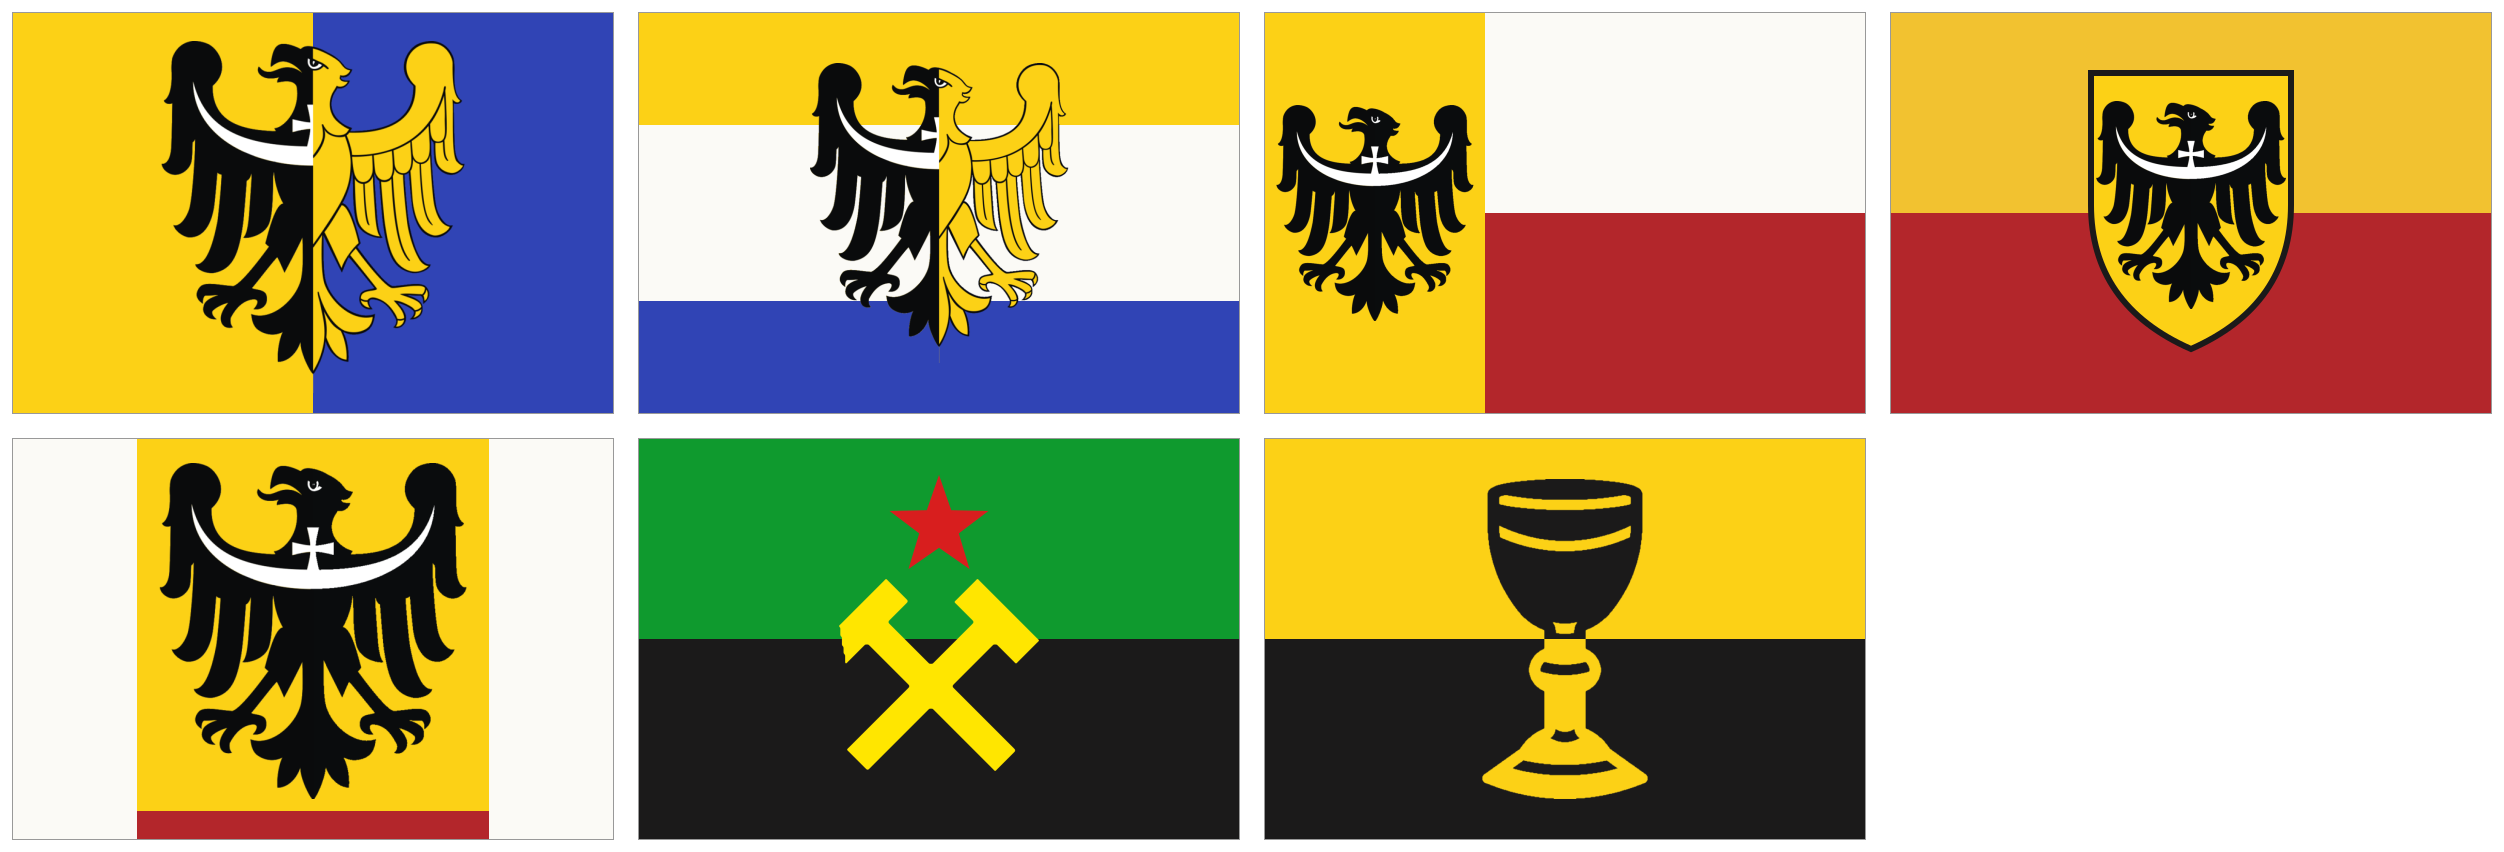
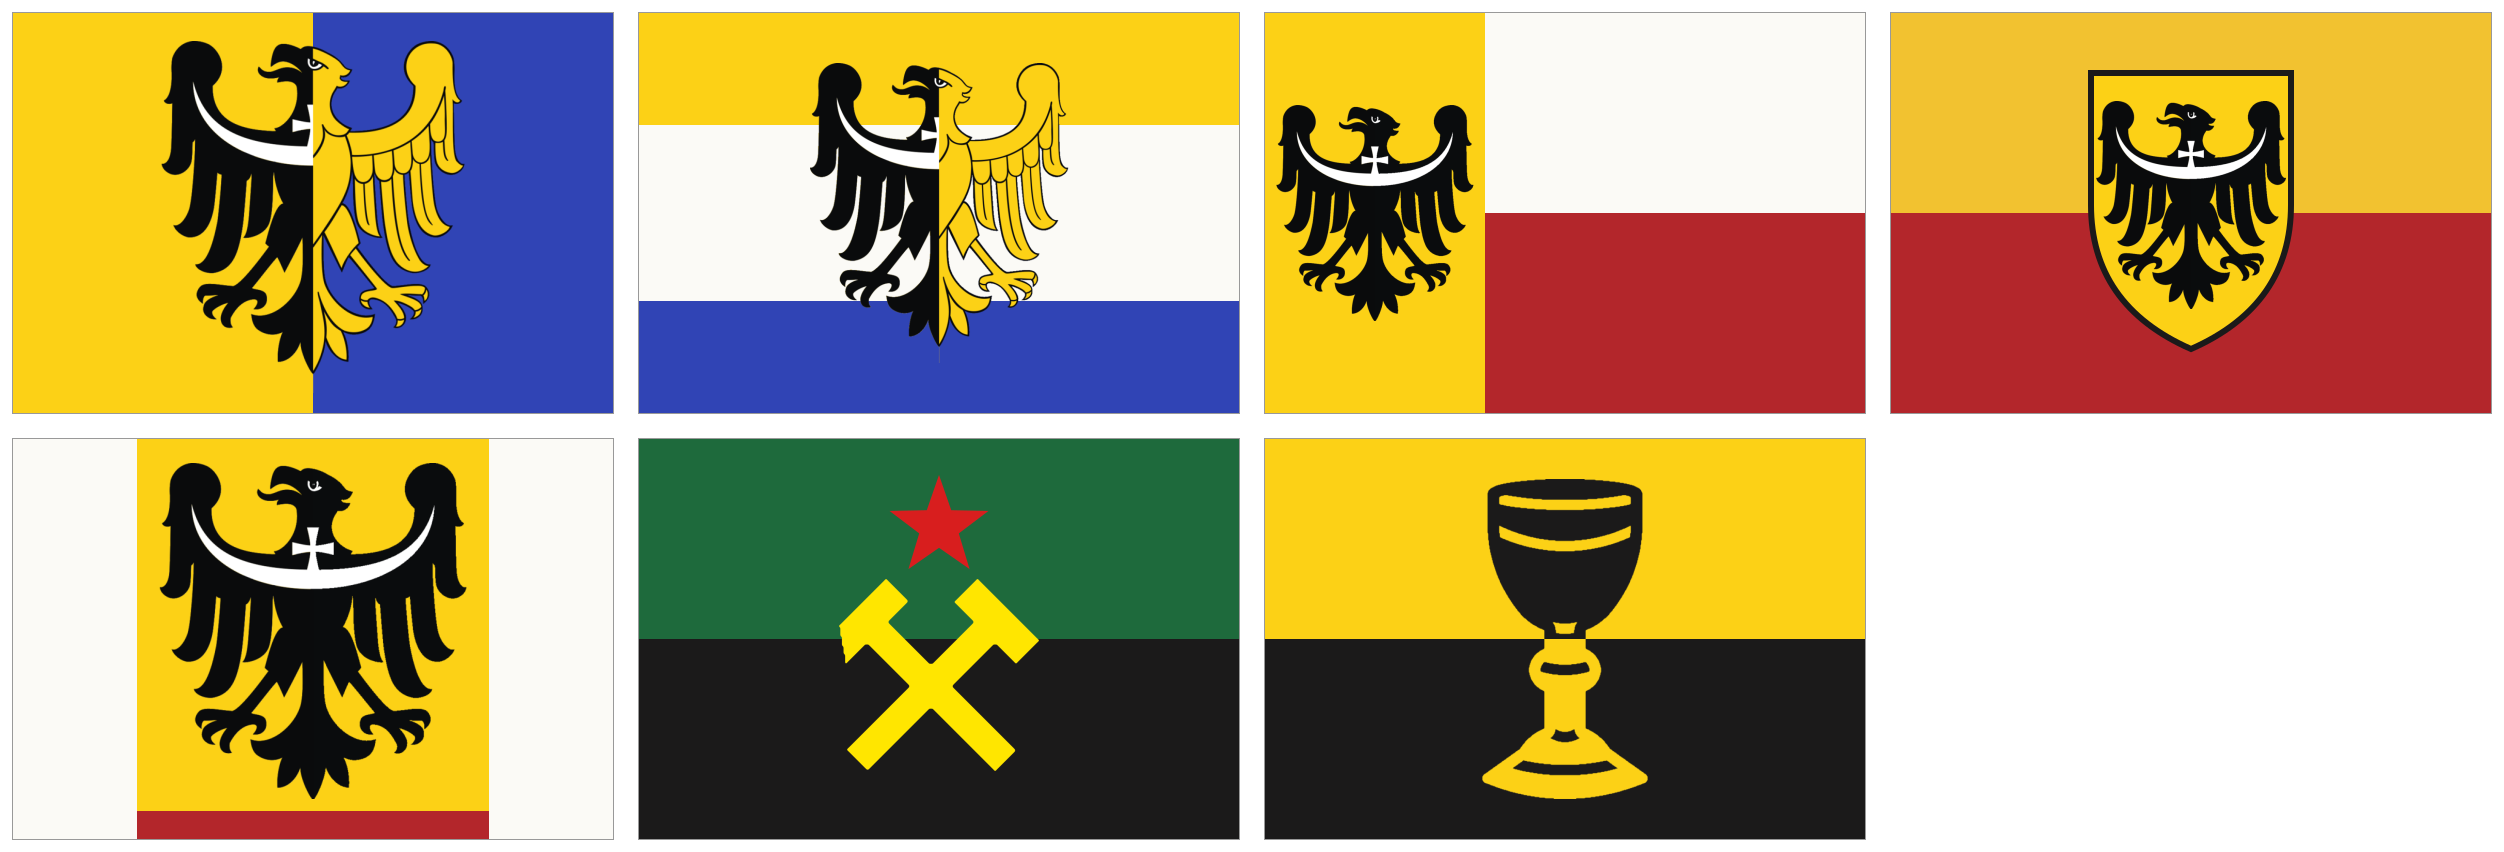
Śląsk rewolucyjny: ciemniejsza zieleń
Claude-Session: https://claude.ai/code/session_01PNyJEgjZDVeUSFrp2WbnmN

Changed region(s): [[0.2492, 0.4883, 0.4984, 0.7629]]

diff --git a/gfx_koncepty/flagi_slask/generuj_flagi.py b/gfx_koncepty/flagi_slask/generuj_flagi.py
@@ -37,7 +37,7 @@ F={
  '5_polski_kandydat': svg(f'<rect width="300" height="200" fill="{WHITE}"/><rect x="62" width="176" height="200" fill="{GOLD}"/>'
                           f'<rect x="62" y="186" width="176" height="14" fill="{RED}"/>'+img(BLK,BW,BH,150,96,168)),
  # Śląsk rewolucyjny (górnicy i hutnicy Górnego Śląska): górnicza zieleń nad czernią, żółte skrzyżowane młotki, nad nimi czerwona gwiazda
- '6_rewolucja': svg(f'<rect width="300" height="100" fill="#0f9a2e"/><rect y="100" width="300" height="100" fill="{BLACK}"/>'
+ '6_rewolucja': svg(f'<rect width="300" height="100" fill="#1e6a3c"/><rect y="100" width="300" height="100" fill="{BLACK}"/>'
                     +img(MG,MGW,MGH,150,118,96)+star(150,44,26,'#d81e1e')),
  # Teokracja husycka (Śląsk jest husyckim lennem Moraw): złoto nad czernią, kielich w kontrbarwach
  '7_teokracja': svg(f'<rect width="300" height="100" fill="{GOLD}"/><rect y="100" width="300" height="100" fill="{BLACK}"/>'
